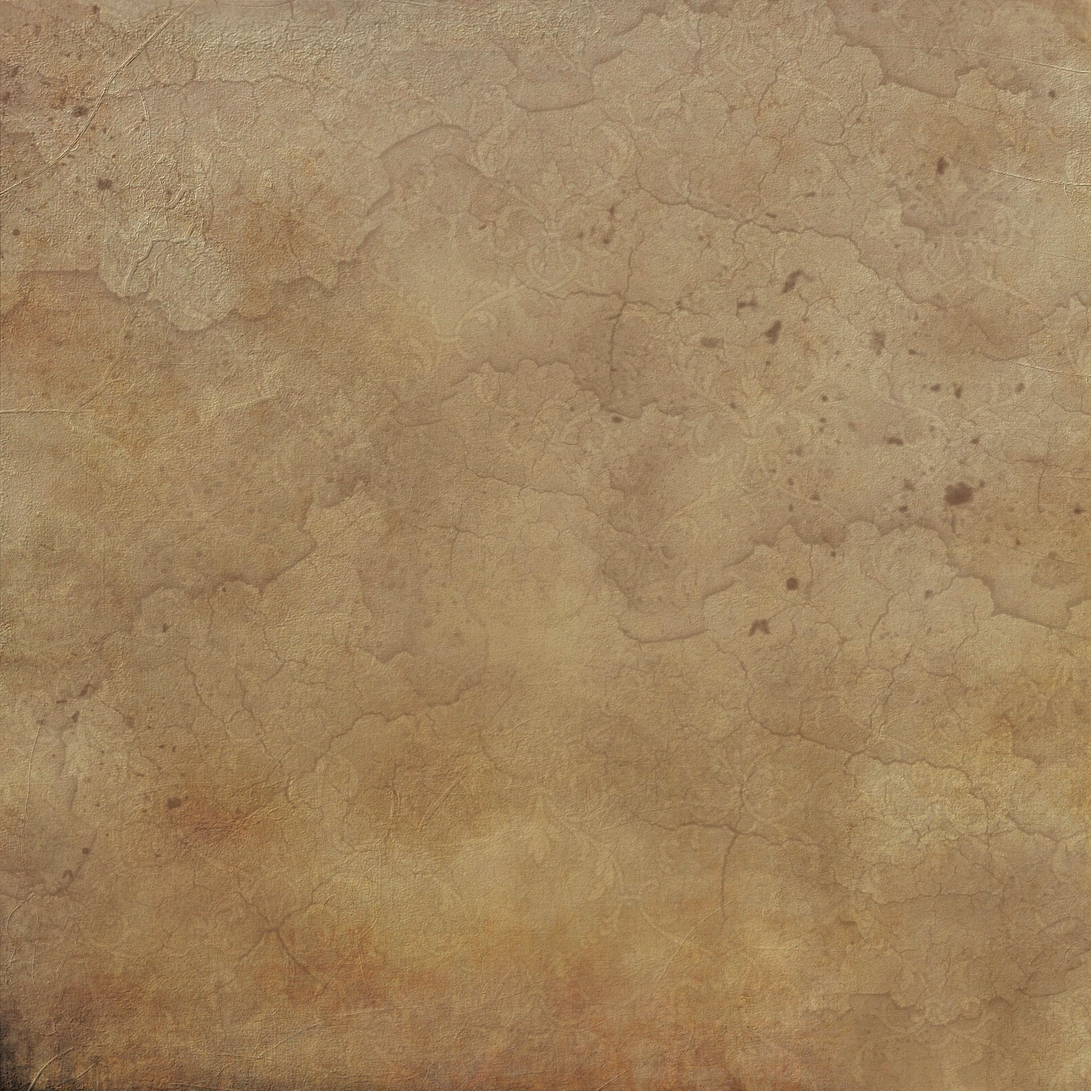
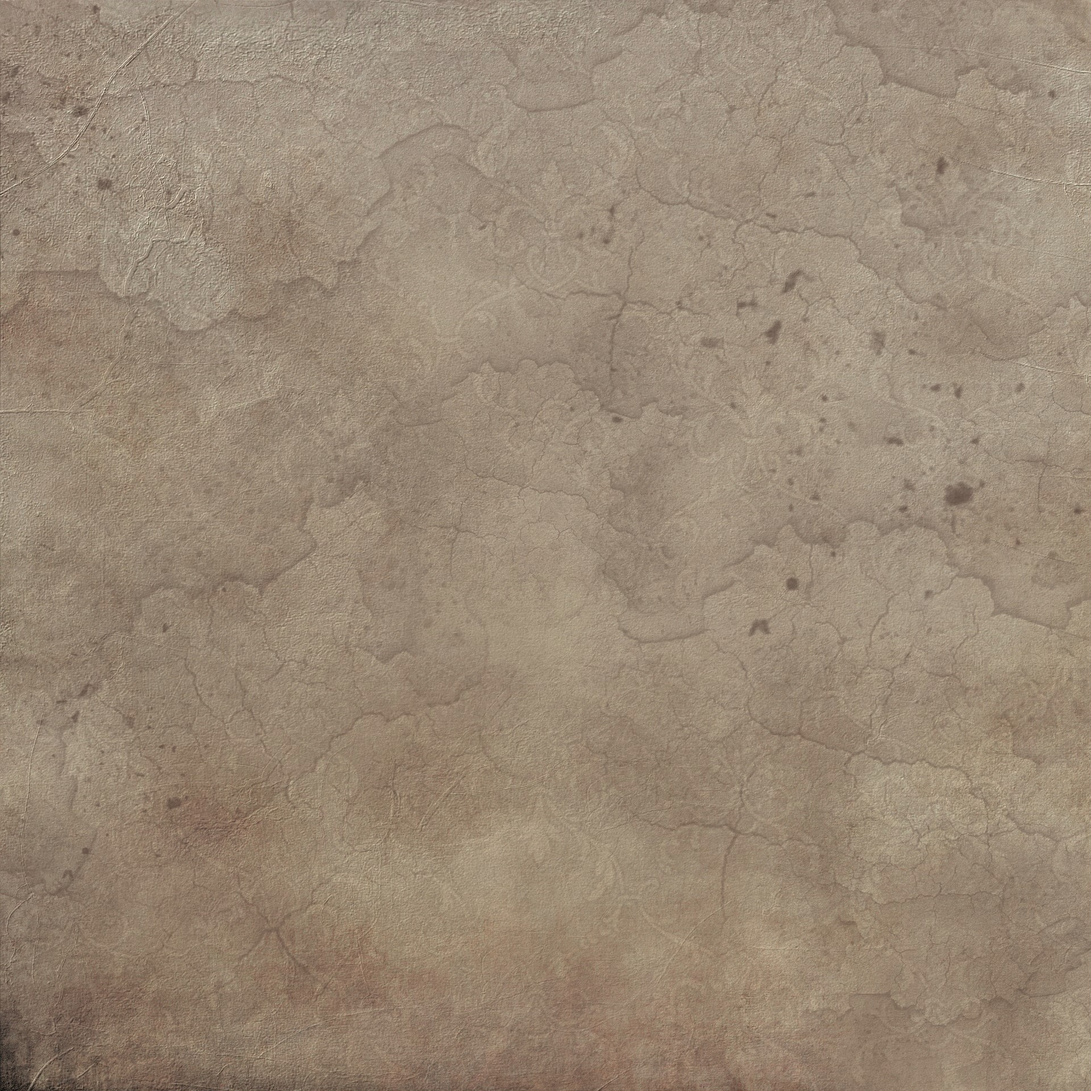
about

diff --git a/Aboutus.html b/Aboutus.html
@@ -19,29 +19,29 @@
 
 <body">
   <header>
-  <nav class="navbar navbar-expand-lg navbar-dark">
-    <a class="navbar-brand" href="#"><img src="image/icon.png" class="d-inline-block align-top"
-      style="width: 100%;"></a>
-    <button class="navbar-toggler" type="button" data-toggle="collapse" data-target="#navbarSupportedContent"
-      aria-controls="navbarSupportedContent" aria-expanded="false" aria-label="Toggle navigation">
-      <span class="navbar-toggler-icon"></span>
-    </button>
+    <nav class="navbar navbar-expand-lg navbar-dark">
+      <a class="navbar-brand" href="#"><img src="image/icon.png" class="d-inline-block align-top"
+          style="width: 100%;"></a>
+      <button class="navbar-toggler" type="button" data-toggle="collapse" data-target="#navbarSupportedContent"
+        aria-controls="navbarSupportedContent" aria-expanded="false" aria-label="Toggle navigation">
+        <span class="navbar-toggler-icon"></span>
+      </button>
 
-    <div class="collapse navbar-collapse" id="navbarSupportedContent">
-      <ul class="navbar-nav ml-auto">
-        <li class="nav-item active">
-        <li class="nav-item">
-          <a class="nav-link" href="index.html">Home</a>
-        </li>
-        <li class="nav-item">
-          <a class="nav-link" href="travel.html">Timeline</a>
-        </li>
-        <li class="nav-item active">
-          <a class="nav-link" href="#">About us</a>
-        </li>
-      </ul>
-    </div>
-  </nav>
+      <div class="collapse navbar-collapse" id="navbarSupportedContent">
+        <ul class="navbar-nav ml-auto">
+          <li class="nav-item active">
+          <li class="nav-item">
+            <a class="nav-link" href="index.html">Home</a>
+          </li>
+          <li class="nav-item">
+            <a class="nav-link" href="travel.html">Timeline</a>
+          </li>
+          <li class="nav-item active">
+            <a class="nav-link" href="#">About us</a>
+          </li>
+        </ul>
+      </div>
+    </nav>
   </header>
 
   <div class="container" style="margin-top:3em" ;>
@@ -60,7 +60,8 @@
       </div>
       <div class="col-sm-4"><br>
         <div class="team-member">
-          <img class="img-fluid rounded-circle hvr-rotate animate__heartBeat" src="image/About/242.png" style="width: 9.5em; height: 9.5em;" alt="">
+          <img class="img-fluid rounded-circle hvr-rotate animate__heartBeat" src="image/About/242.png"
+            style="width: 9.5em; height: 9.5em;" alt="">
           <h3>นายธนโชติ เลิศลาภนนท์</h3>
           <h5 class="text-light">61070070</h5>
         </div>
@@ -88,6 +89,56 @@
       </div>
     </div>
   </div>
+
+  <footer class="page-footer font-small stylish-color-dark pt-4">
+
+    <div class="container text-center text-md-left">
+      <div class="row">
+        <div class="col-md-4 mx-auto">
+          <h5 class="font-weight-bold text-uppercase mt-3 mb-4" style="color: gray;">Time Traveller</h5>
+          <p style="color: white;">คุณรู้หรือไม่ ว่าโลกของเรานั้นเกิดอะไรขึ้นมามากมาย
+            Time traveller จะพาคุณค้นหาเหตุการณ์สำคัญที่คุณกำลังสนใจ
+            และพาคุณดื่มดํ่าไปกับประสบการณ์การท่องเวลาในรูปแบบที่คุณอาจคาดไม่ถึง...</p>
+
+        </div>
+
+
+        <div class="col-md-2 mx-auto">
+
+          <h5 class="font-weight-bold text-uppercase mt-3 mb-4" style="color: gray;">หาอะไรอยู่</h5>
+
+          <ul class="list-unstyled">
+            <li>
+              <a href=" ">Home</a>
+            </li>
+            <li>
+              <a href=" ">Timeline</a>
+            </li>
+            <li>
+              <a href=" ">Travel</a>
+            </li>
+            <li>
+              <a href=" ">About us</a>
+            </li>
+          </ul>
+
+        </div>
+
+
+      </div>
+
+
+    </div>
+    <div class="footer-copyright text-center py-3">
+      <p style="color: gray;">© 2020 All rights reserved.</p>
+
+    </div>
+
+
+
+  </footer>
+
+
 
   <script src="https://code.jquery.com/jquery-3.5.1.slim.min.js"
     integrity="sha384-DfXdz2htPH0lsSSs5nCTpuj/zy4C+OGpamoFVy38MVBnE+IbbVYUew+OrCXaRkfj"

diff --git a/style_aboutus.css b/style_aboutus.css
@@ -10,7 +10,7 @@ body{
     font-family: 'Kanit', sans-serif;;
     height: auto;
     width: auto;
-    background: url(image/back21.jpg); 
+    background: url(image/back13.jpg); 
     background-repeat: no-repeat;
     background-attachment: fixed;  
     background-size: cover;
@@ -53,6 +53,21 @@ body{
     color: white;
 }
 .h5{
+    color: white;
+}
+.black{
+    position: absolute;
+    bottom: 100%;
+    height: 150%;
+    width: 100%;
+    z-index: 20;
+    background: linear-gradient(to top ,black,transparent);
+
+}
+.page-footer{
+    background-color: black;
+}
+.p{
     color: white;
 }
 
